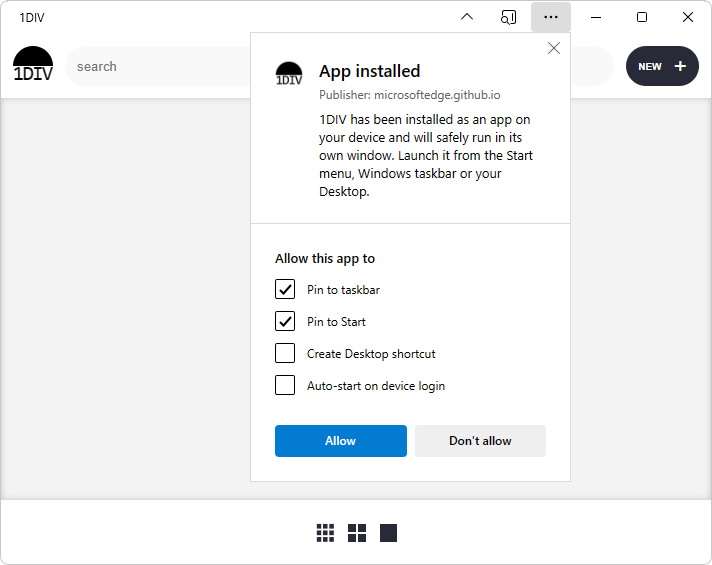
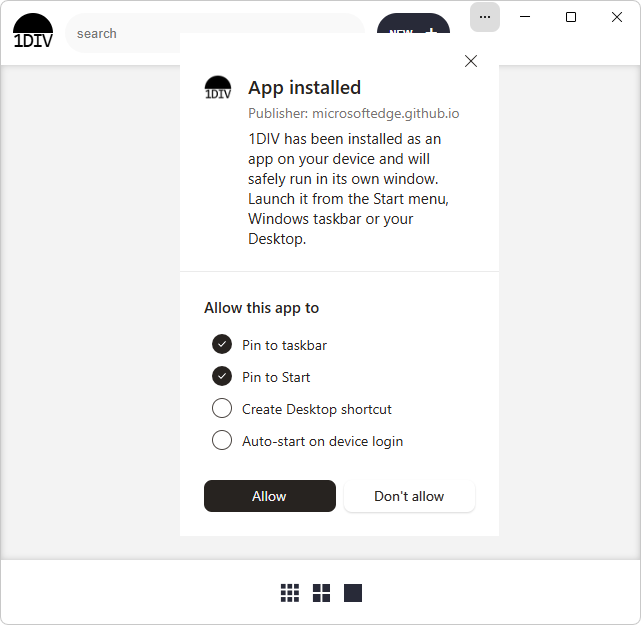
Window Controls Overlay hides title bar (#3895)
* Add note on Window Controls Overlay hiding title bar by default in release notes for Edge 151

* del h2 Toggle the title bar

* whichthat

* todo: delete chevron from png?

* inc cmts

* reseq list

---------

diff --git a/microsoft-edge/progressive-web-apps/how-to/window-controls-overlay.md b/microsoft-edge/progressive-web-apps/how-to/window-controls-overlay.md
@@ -6,7 +6,7 @@ ms.author: msedgedevrel
 ms.topic: article
 ms.service: microsoft-edge
 ms.subservice: pwa
-ms.date: 05/22/2024
+ms.date: 08/04/2026
 ---
 # Display content in the title bar area using Window Controls Overlay
 
@@ -43,20 +43,6 @@ See also:
 * [display_override](https://developer.mozilla.org/docs/Web/Manifest/display_override) at MDN > References > Web app manifests.
 * [Web app manifests](https://developer.mozilla.org/docs/Web/Manifest) at MDN > References.
 * [The web app manifest](https://developer.mozilla.org/docs/Web/Progressive_web_apps/Guides/Making_PWAs_installable#the_web_app_manifest) in _Making PWAs installable_ at MDN > References > Progressive web apps > Guides.
-
-
-<!-- ====================================================================== -->
-## Toggle the title bar
-
-When the Window Controls Overlay feature is enabled, the user can choose to have the title bar or not, by clicking the title bar toggle button:
-
-![Select the title bar toggle button](./window-controls-overlay-images/wco-toggle-button.png)
-
-Your code can't assume that the window controls overlay is displayed, because:
-* The user can choose whether to display the title bar.
-* Your app can also run in a web browser or on a mobile device, as well as running as a desktop app.
-
-Therefore, your code needs to react to title bar geometry changes.  To learn more, see [React to overlay changes](#react-to-overlay-changes).
 
 
 <!-- ====================================================================== -->
@@ -166,13 +152,10 @@ if ('windowControlsOverlay' in navigator) {
 
    | Icon | Tooltip |
    | --- | --- |
-   | ![The "Hide title bar" icon](./window-controls-overlay-images/hide-title-bar-icon.png) | **Hide title bar** |
    | ![The "Settings and more" icon](./window-controls-overlay-images/settings-and-more-icon.png) | **Settings and more** |
    | ![The "Minimize" icon](./window-controls-overlay-images/minimize-icon.png) | **Minimize** |
    | ![The "Restore" icon](./window-controls-overlay-images/restore-icon.png) | **Restore** |
    | ![The "Close" icon](./window-controls-overlay-images/close-icon.png) | **Close** |
-
-1. In the title bar, click the **Hide title bar** (![The "Hide title bar" icon](./window-controls-overlay-images/hide-title-bar-icon.png)) button.
 
    The app now displays content all the way to the top of the window frame, where the title bar used to be:
 

diff --git a/microsoft-edge/web-platform/release-notes/151.md b/microsoft-edge/web-platform/release-notes/151.md
@@ -203,6 +203,23 @@ The following new Web API features are included in Microsoft Edge.
 
 
 <!-- ------------------------------ -->
+#### Window Controls Overlay now hides the title bar by default
+
+The `display_override: ["window-controls-overlay"]` web application manifest member hides the default title bar that the browser displays at the top of the window (except the window control buttons), for an installed Progressive Web App.
+
+Before Microsoft Edge 151, installed web apps with `display_override: ["window-controls-overlay"]` initially displayed the default title bar, including a chevron (^ or v) button that users could click to enable the Window Controls Overlay.
+
+Starting with Edge 151:
+* The title bar is hidden by default.
+* The chevron button (the title bar toggle button) has been removed.
+* Installed web apps with `display_override: ["window-controls-overlay"]` can use that space within the title bar immediately (where the chevron button was), without requiring user action.
+
+See also:
+* [Window Controls Overlay API](https://developer.mozilla.org/docs/Web/API/Window_Controls_Overlay_API) at MDN.
+* [Display content in the title bar area using Window Controls Overlay](../../progressive-web-apps/how-to/window-controls-overlay.md).
+
+
+<!-- ------------------------------ -->
 #### Device event permission request API
 
 You can call `DeviceMotionEvent.requestPermission()` and `DeviceOrientationEvent.requestPermission()` to ask the browser for device motion and orientation data to be shared with the webpage.
